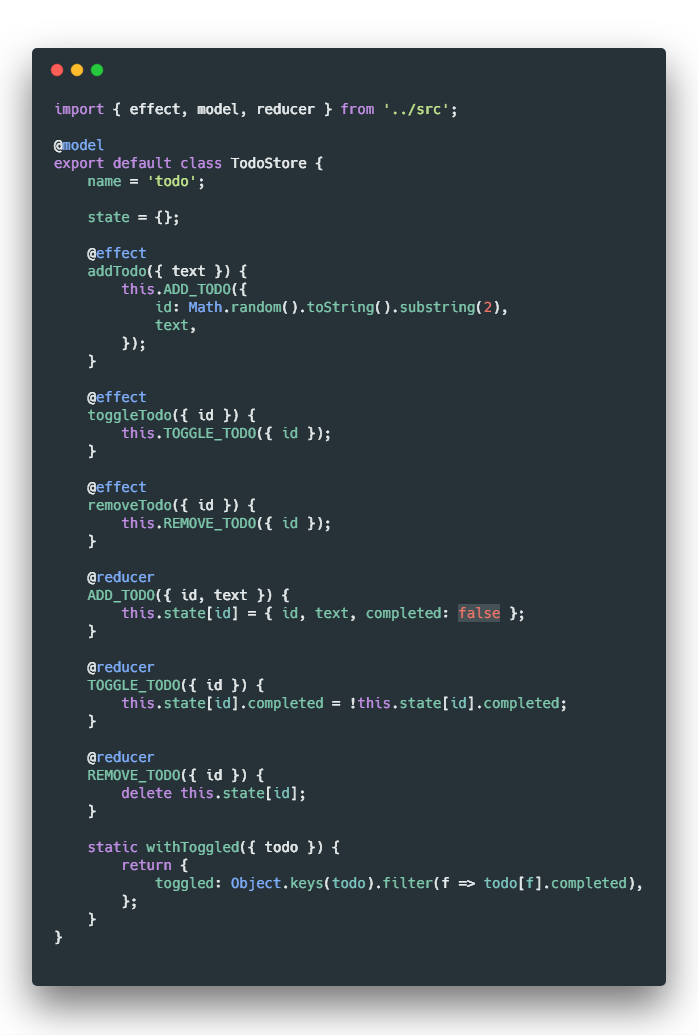
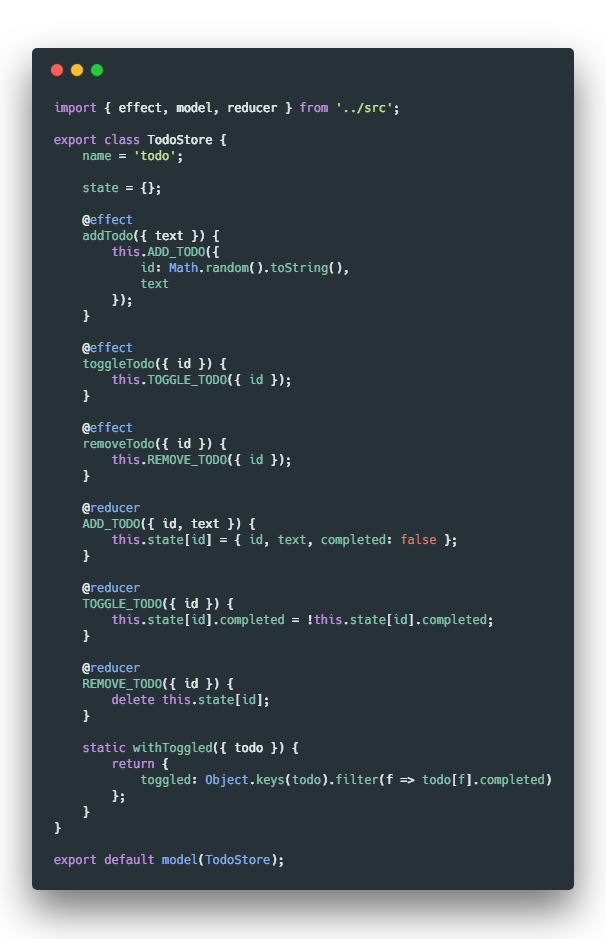
Fixed default export decorator (Don't use if with static selectors)

diff --git a/examples/todo-store-immer.js b/examples/todo-store-immer.js
@@ -1,7 +1,6 @@
 import { effect, model, reducer } from '../src';
 
-@model
-export default class TodoStore {
+export class TodoStore {
 	name = 'todo';
 
 	state = {};
@@ -9,8 +8,8 @@ export default class TodoStore {
 	@effect
 	addTodo({ text }) {
 		this.ADD_TODO({
-			id: Math.random().toString().substring(2),
-			text,
+			id: Math.random().toString(),
+			text
 		});
 	}
 
@@ -41,7 +40,9 @@ export default class TodoStore {
 
 	static withToggled({ todo }) {
 		return {
-			toggled: Object.keys(todo).filter(f => todo[f].completed),
+			toggled: Object.keys(todo).filter(f => todo[f].completed)
 		};
 	}
 }
+
+export default model(TodoStore);

diff --git a/examples/todo-store.js b/examples/todo-store.js
@@ -1,7 +1,6 @@
 import { effect, model, reducer } from '../src';
 
-@model
-export default class TodoStore {
+export class TodoStore {
 	name = 'todo';
 
 	state = {};
@@ -9,8 +8,8 @@ export default class TodoStore {
 	@effect
 	addTodo({ text }) {
 		this.ADD_TODO({
-			id: Math.random().toString().substring(2),
-			text,
+			id: Math.random().toString(),
+			text
 		});
 	}
 
@@ -52,7 +51,9 @@ export default class TodoStore {
 
 	static withToggled({ todo }) {
 		return {
-			toggled: Object.keys(todo).filter(f => todo[f].completed),
+			toggled: Object.keys(todo).filter(f => todo[f].completed)
 		};
 	}
 }
+
+export default model(TodoStore);
